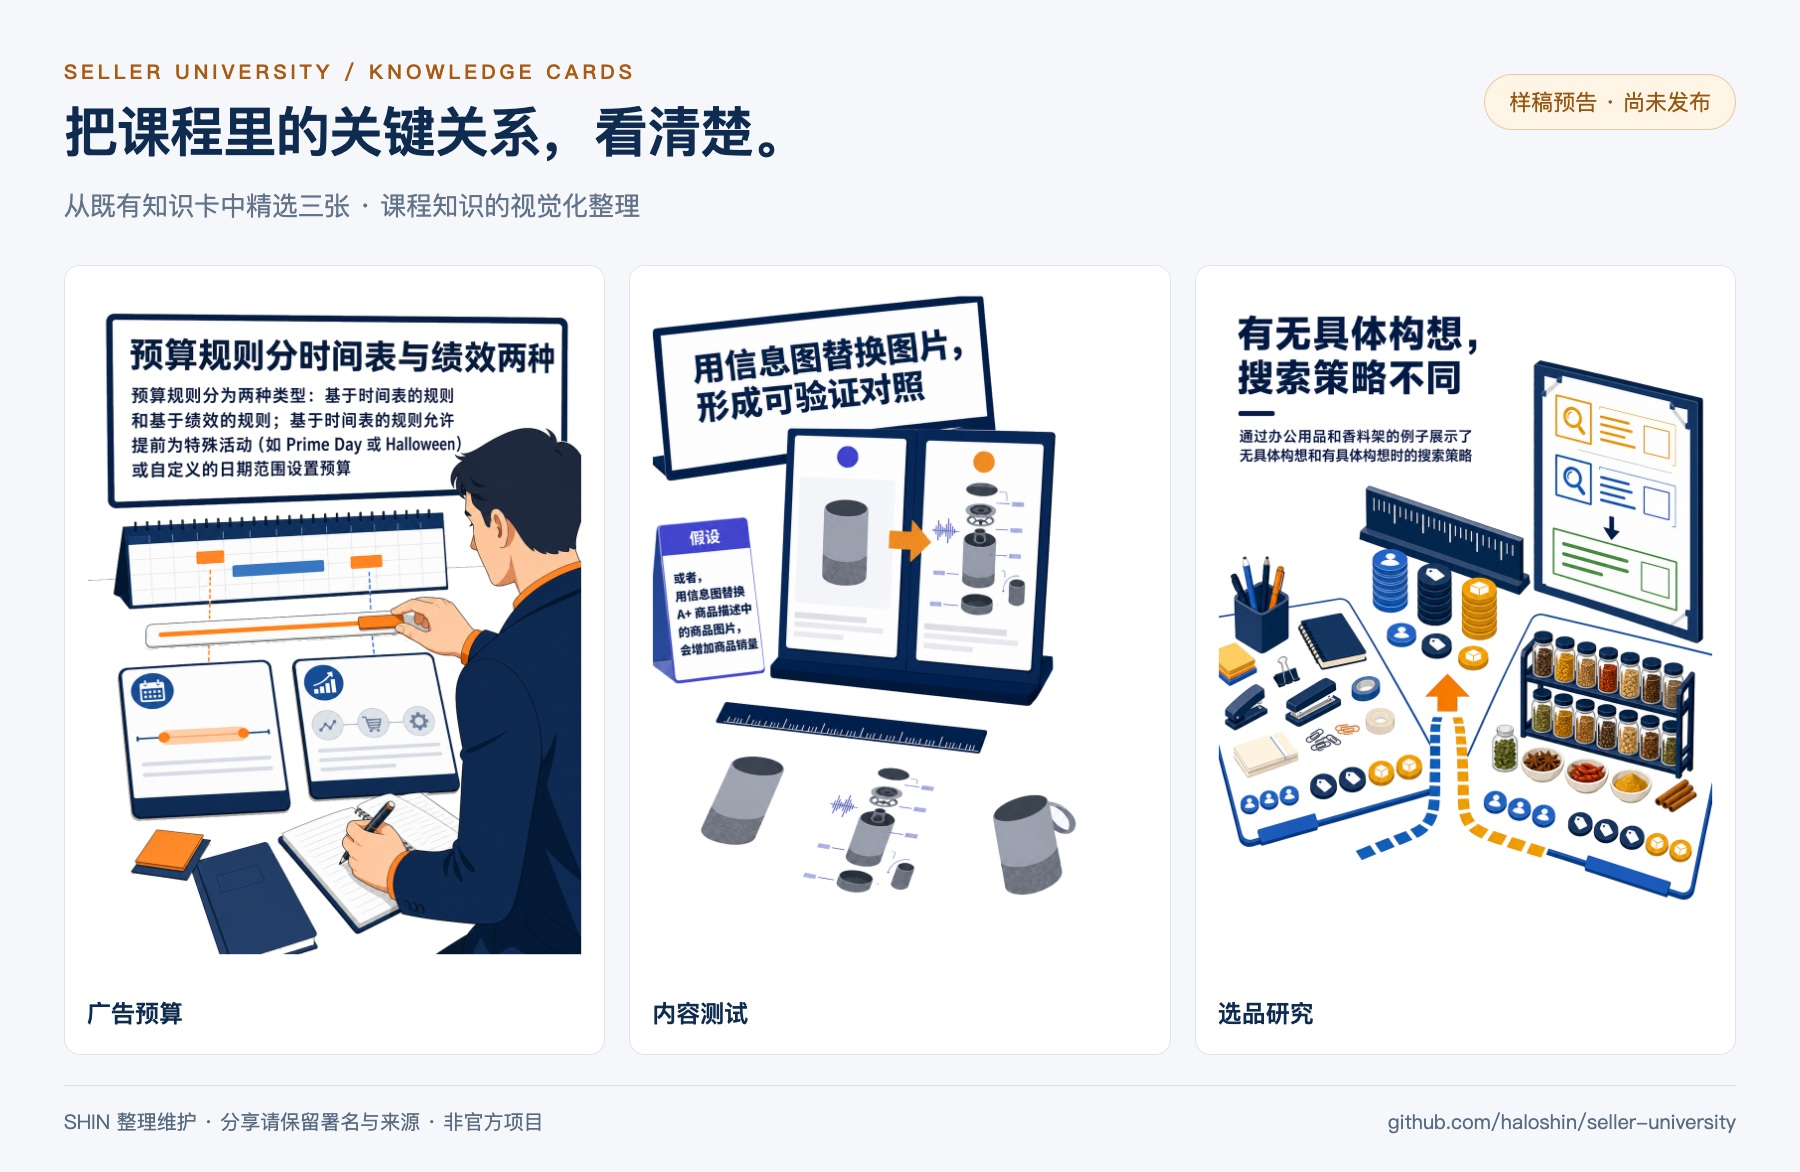
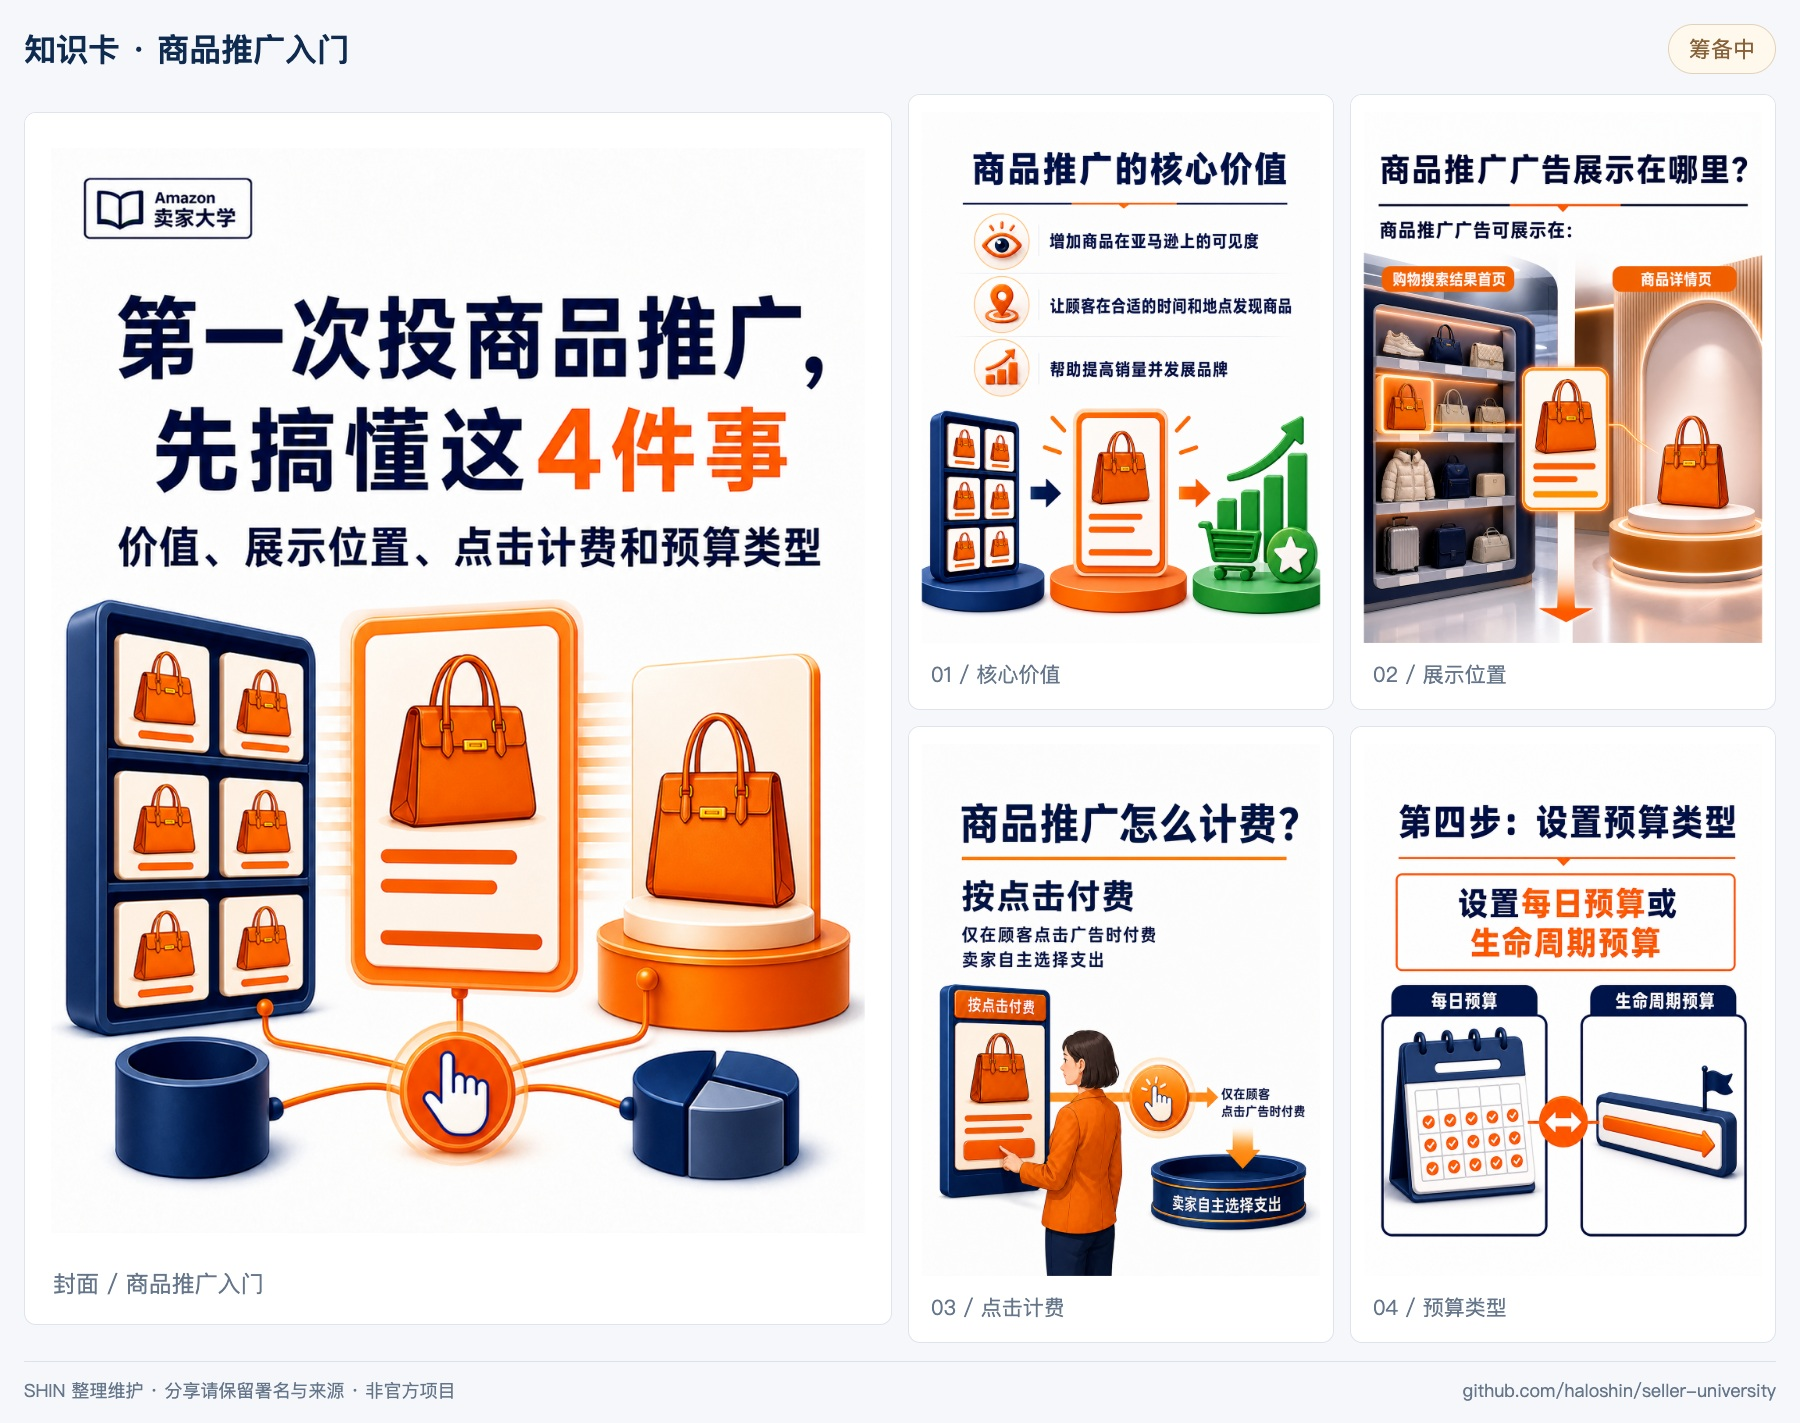
Show a connected card series and simplify learning previews

diff --git a/README.en.md b/README.en.md
@@ -86,29 +86,23 @@ Translations follow the terminology used in existing Chinese-audio courses, pres
 
 <br><br>
 
-## A preview of what comes next
+## More ways to learn
 
-**Knowledge-card and question-bank drafts exist; the full collections are unreleased.** These selected samples preview work already prepared. The current release download focuses on course transcripts, translations and captions.
+### Knowledge cards
 
-### Knowledge cards: make the relationships visible
+One topic, a connected set of cards. This Chinese introduction to Sponsored Products uses a cover and four cards to explain value, placements, pay-per-click pricing and budget types.
 
-Three existing Chinese draft cards cover **advertising budgets, content experiments and product research**. They turn course concepts, comparisons and conditions into visual study material.
-
-[![Existing Chinese knowledge-card drafts: budget rules, image experiments and product research; full collection unreleased](assets/knowledge-cards-preview.jpg)](assets/knowledge-cards-preview.jpg)
-
-<sub>A collage of three existing cards; click to enlarge. These are project-created editorial visuals, not official course slides. The full card collection is not available for download.</sub>
+[![Sponsored Products knowledge cards: one cover and four connected explanation cards](assets/knowledge-cards-preview.jpg)](assets/knowledge-cards-preview.jpg)
 
 <br>
 
-### Course questions: check what you understood
+### Course questions
 
-Existing questions pair **concept checks and practical judgments** with reference answers and course locations. These two Chinese examples ask which rating reflects the seller experience, and who handles customer service for MCF orders.
+Check your understanding after a course, then use the reference answers to revisit the source.
 
-[![Two existing Chinese question-bank items with reference answers and course timestamps; preview only](assets/question-bank-preview.jpg)](assets/question-bank-preview.jpg)
+[![Chinese course questions with reference answers and source locations](assets/question-bank-preview.jpg)](assets/question-bank-preview.jpg)
 
-[Read the first source course ↗](https://haloshin.github.io/seller-university/#view=course&id=fc47f5bc-7eb9-417f-89c0-b5155169f905&lang=en_US&ui=en) &emsp; [Read the second source course ↗](https://haloshin.github.io/seller-university/#view=course&id=fc0c4ad6-1655-4418-be86-bf00c8f7cf16&lang=en_US&ui=en)
-
-<sub>This is a layout preview of existing questions, not a released quiz interface. The full question bank is unreleased. Image timestamps refer to Chinese audio; check current official guidance before applying archived material.</sub>
+<sub>Knowledge cards and the question bank are in preparation, not yet released. Click the images to enlarge.</sub>
 
 <br><br>
 
@@ -159,7 +153,7 @@ git clone https://github.com/haloshin/seller-university.git
 | Direction | Current status |
 | :--- | :--- |
 | **Amazon reading library** | Released: transcripts, Chinese translations, captions and offline reader |
-| **Knowledge cards & question bank** | Selected drafts shown above; full collections unreleased |
+| **Knowledge cards & question bank** | In preparation; selected examples shown above |
 | **Seller University Skill** | Planned for course lookup and study assistance; unreleased |
 | **TikTok Shop · Walmart · Shopify** | Future platform directions; not yet available |
 

diff --git a/README.md b/README.md
@@ -86,29 +86,23 @@
 
 <br><br>
 
-## 后续内容，先看真实样稿
+## 更多学习方式
 
-**知识卡与题库已有样稿，完整内容尚未发布。** 下面展示的是从已有成果中挑选的预告，当前版本下载包仍以课程转写稿、译文与字幕为主。
+### 知识卡
 
-### 知识卡：把关键关系画出来
+一个知识点，一组图。以「商品推广入门」为例，用封面和四张讲解卡，说明核心价值、展示位置、点击计费与预算类型。
 
-从既有样稿中选出 **广告预算、内容测试、选品研究** 三张卡。把课程中的概念、对照关系和判断条件放进具体场景，作为读完原文后的复习材料。
-
-[![知识卡样稿拼图：预算规则、图片对照测试、选品搜索策略；尚未发布完整卡库](assets/knowledge-cards-preview.jpg)](assets/knowledge-cards-preview.jpg)
-
-<sub>三张均为已有知识卡原图拼版，点击可放大。属于项目编辑整理，非官方课程原图；完整知识卡库尚未开放下载。</sub>
+[![商品推广入门知识卡：一张封面与四张连续讲解卡](assets/knowledge-cards-preview.jpg)](assets/knowledge-cards-preview.jpg)
 
 <br>
 
-### 课程题库：读过之后，能不能说清楚？
+### 课程题库
 
-已有题目围绕课程中的**概念辨析与业务判断**展开，并保留参考答案和原文位置。下面两道分别来自“评论与评分的最佳实践”和“多渠道配送：运作方式”。
+读完课程，用问答检查理解，结合参考答案回到原文复习。
 
-[![题库样稿：区分卖家反馈评级、判断 MCF 客户服务职责；附参考答案与课程时间位置](assets/question-bank-preview.jpg)](assets/question-bank-preview.jpg)
+[![课程题库：问题、参考答案与课程出处](assets/question-bank-preview.jpg)](assets/question-bank-preview.jpg)
 
-[查看第一题对应课程 ↗](https://haloshin.github.io/seller-university/#view=course&id=fc47f5bc-7eb9-417f-89c0-b5155169f905&lang=zh_CN&ui=zh) &emsp; [查看第二题对应课程 ↗](https://haloshin.github.io/seller-university/#view=course&id=fc0c4ad6-1655-4418-be86-bf00c8f7cf16&lang=zh_CN&ui=zh)
-
-<sub>这是已有题目和参考答案的排版预览，不是已经上线的答题界面。完整题库尚未发布；示例依据归档课程，实际运营请核对当前官方说明。</sub>
+<sub>知识卡与题库正在整理，敬请期待。点击图片可放大查看。</sub>
 
 <br><br>
 
@@ -161,7 +155,7 @@ git clone https://github.com/haloshin/seller-university.git
 | 内容方向 | 当前状态 |
 | :--- | :--- |
 | **Amazon 课程阅读库** | 已发布：原语言转写、中文译文、字幕与离线阅读 |
-| **知识卡与课程题库** | 本页展示精选样稿；完整内容尚未发布 |
+| **知识卡与课程题库** | 筹备中，部分内容见上方展示 |
 | **Seller University Skill** | 计划用于查课与辅助学习，尚未发布 |
 | **TikTok Shop · Walmart · Shopify** | 后续平台方向，尚未上线 |
 

diff --git a/amazon/README.en.md b/amazon/README.en.md
@@ -106,31 +106,21 @@ All 85 courses previously available only in English now include a **Chinese tran
 
 ## Planned updates
 
-**Preview existing drafts below. Full knowledge-card and question-bank collections are unreleased.**
+### Knowledge cards
 
-### Knowledge cards: make the relationships visible
+One topic, a connected set of cards. This Chinese introduction to Sponsored Products uses a cover and four cards to explain value, placements, pay-per-click pricing and budget types.
 
-Three existing Chinese draft cards cover **advertising budgets, content experiments and product research**. They turn course concepts, comparisons and conditions into visual study material.
-
-[![Existing Chinese knowledge-card drafts: budget rules, image experiments and product research; full collection unreleased](../assets/knowledge-cards-preview.jpg)](../assets/knowledge-cards-preview.jpg)
-
-<sub>A collage of three existing cards; click to enlarge. These are project-created editorial visuals, not official course slides. The full card collection is not available for download.</sub>
+[![Sponsored Products knowledge cards: one cover and four connected explanation cards](../assets/knowledge-cards-preview.jpg)](../assets/knowledge-cards-preview.jpg)
 
 <br>
 
-### Course questions: check what you understood
+### Course questions
 
-Existing questions pair **concept checks and practical judgments** with reference answers and course locations. These two Chinese examples ask which rating reflects the seller experience, and who handles customer service for MCF orders.
+Check your understanding after a course, then use the reference answers to revisit the source.
 
-[![Two existing Chinese question-bank items with reference answers and course timestamps; preview only](../assets/question-bank-preview.jpg)](../assets/question-bank-preview.jpg)
+[![Chinese course questions with reference answers and source locations](../assets/question-bank-preview.jpg)](../assets/question-bank-preview.jpg)
 
-[Read the first source course ↗](https://haloshin.github.io/seller-university/#view=course&id=fc47f5bc-7eb9-417f-89c0-b5155169f905&lang=en_US&ui=en) &emsp; [Read the second source course ↗](https://haloshin.github.io/seller-university/#view=course&id=fc0c4ad6-1655-4418-be86-bf00c8f7cf16&lang=en_US&ui=en)
-
-<sub>This is a layout preview of existing questions, not a released quiz interface. The full question bank is unreleased. Image timestamps refer to Chinese audio; check current official guidance before applying archived material.</sub>
-
-<br>
-
-For the Skill and future platforms, see the [Seller University overview](../README.en.md#planned-updates). **Star to bookmark · Watch → Custom → Releases for updates.**
+<sub>Knowledge cards and the question bank are in preparation, not yet released. Click the images to enlarge.</sub>
 
 <br><br>
 
